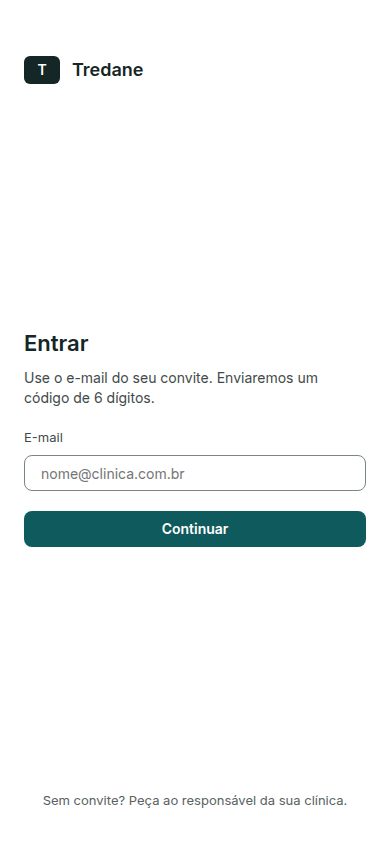
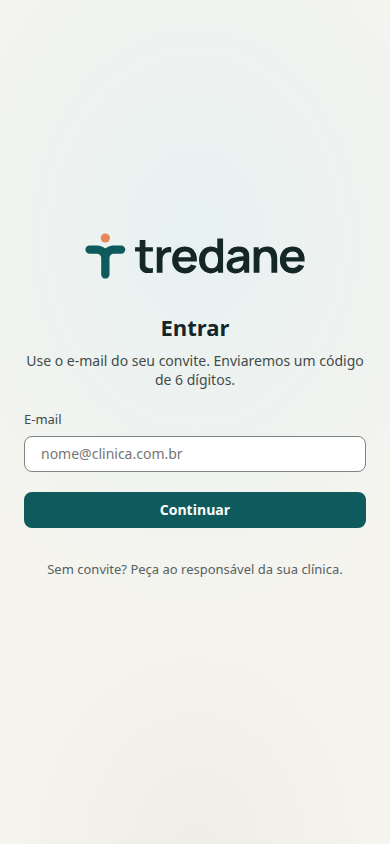
docs(design): redesenha splash Entrar centrado (M-09 + desktop)
Corrige a composição partida (marca no topo, meio vazio, nota no fundo)
com bloco vertical centrado e fundo surface.app. Só mocks — à espera
da aprovação do Paulo, sem implementação no painel.

diff --git a/docs/design/mobile/Entrar.dc.html b/docs/design/mobile/Entrar.dc.html
@@ -9,7 +9,7 @@
 <x-dc>
 <helmet>
 <link rel="preconnect" href="https://fonts.googleapis.com">
-<link href="https://fonts.googleapis.com/css2?family=Inter:wght@400;500;600&amp;display=swap" rel="stylesheet">
+<link href="https://fonts.googleapis.com/css2?family=Roboto:wght@400;500;600&amp;display=swap" rel="stylesheet">
 <style>
 body{margin:0}
 a{color:#0E5A5C}a:hover{color:#0A4547}
@@ -17,33 +17,47 @@ button,input{font:inherit}
 button:focus-visible,a:focus-visible,input:focus-visible{outline:2px solid #0E5A5C;outline-offset:2px}
 </style>
 </helmet>
-<div style="width: 390px; height: 844px; box-sizing: border-box; background: #FFFFFF; color: #142625; font-family: Inter, system-ui, sans-serif; font-size: 14px; line-height: 1.45; display: flex; flex-direction: column; padding: 0 24px 34px; overflow: hidden">
+<!--
+  M-09 Entrar — composição Proposta 31/10/2026 (revisão Paulo).
+  Corrige o splash partido em staging: marca colada no topo, meio vazio,
+  «Sem convite?» colado no fundo. Aqui marca + formulário Clerk (mock) +
+  nota de convite formam um único bloco centrado no eixo vertical.
+  Fundo: surface.app com mancha suave primary.tint (tokens), sem branco plano.
+  DEC-070: logotipo horizontal acima do formulário. Sem features novas.
+-->
+<div style="width: 390px; height: 844px; box-sizing: border-box; position: relative; overflow: hidden; background: #F5F4EF; color: #142625; font-family: Roboto, &quot;Helvetica Neue&quot;, Helvetica, Arial, sans-serif; font-size: 14px; line-height: 1.4; display: flex; flex-direction: column; padding: 0 24px 34px">
 
-<div style="display: flex; align-items: center; gap: 12px; padding-top: 56px">
-<div style="width: 36px; height: 28px; border-radius: 6px; background: #142625; color: #FFFFFF; display: flex; align-items: center; justify-content: center; font-weight: 600">T</div>
-<span style="font-size: 18px; font-weight: 600">Tredane</span>
+<div aria-hidden="true" style="position: absolute; inset: 0; pointer-events: none; background:
+  radial-gradient(120% 70% at 50% 28%, #E7F1F1 0%, rgba(231,241,241,0) 62%),
+  radial-gradient(90% 50% at 50% 100%, #EEEDE7 0%, rgba(238,237,231,0) 55%),
+  #F5F4EF"></div>
+
+<div style="position: relative; flex: 1; display: flex; flex-direction: column; justify-content: center; gap: 32px; min-height: 0">
+
+<div style="display: flex; justify-content: center">
+<img src="../brand/svg/tredane-horizontal-cor.svg" alt="Tredane" height="48" style="height: 48px; width: auto; display: block">
 </div>
 
 <sc-if value="{{isEmail}}" hint-placeholder-val="{{ true }}">
-<div style="flex: 1; display: flex; flex-direction: column; justify-content: center; gap: 20px">
-<div style="display: flex; flex-direction: column; gap: 8px">
+<div style="display: flex; flex-direction: column; gap: 20px">
+<div style="display: flex; flex-direction: column; gap: 8px; text-align: center">
 <h1 style="margin: 0; font-size: 22px; font-weight: 600">Entrar</h1>
 <p style="margin: 0; color: #424B4A">Use o e-mail do seu convite. Enviaremos um código de 6 dígitos.</p>
 </div>
-<label style="display: flex; flex-direction: column; gap: 8px; font-size: 13px; color: #424B4A">E-mail
-<input type="email" autocomplete="email" placeholder="nome@clinica.com.br" style="height: 36px; box-sizing: border-box; padding: 0 16px; border: 1px solid #7A8584; border-radius: 8px; font-size: 14px; color: #142625"></label>
+<label style="display: flex; flex-direction: column; gap: 8px; font-size: 13px; color: #424B4A; text-align: left">E-mail
+<input type="email" autocomplete="email" placeholder="nome@clinica.com.br" style="height: 36px; box-sizing: border-box; padding: 0 16px; border: 1px solid #7A8584; border-radius: 8px; font-size: 14px; color: #142625; background: #FFFFFF"></label>
 <button type="button" onClick="{{goCode}}" style="height: 36px; border: 0; border-radius: 8px; background: #0E5A5C; color: #FFFFFF; font-size: 14px; font-weight: 600; cursor: pointer">Continuar</button>
 </div>
 </sc-if>
 
 <sc-if value="{{isCode}}" hint-placeholder-val="{{ false }}">
-<div style="flex: 1; display: flex; flex-direction: column; justify-content: center; gap: 20px">
-<div style="display: flex; flex-direction: column; gap: 8px">
+<div style="display: flex; flex-direction: column; gap: 20px">
+<div style="display: flex; flex-direction: column; gap: 8px; text-align: center">
 <h1 style="margin: 0; font-size: 22px; font-weight: 600">Digite o código</h1>
 <p style="margin: 0; color: #424B4A">Enviamos um código para a***@clinica.com.br. Ele vale por poucos minutos.</p>
 </div>
-<label style="display: flex; flex-direction: column; gap: 8px; font-size: 13px; color: #424B4A">Código de 6 dígitos
-<input type="text" inputmode="numeric" autocomplete="one-time-code" maxlength="6" placeholder="000000" style="height: 60px; box-sizing: border-box; padding: 0 16px; border: 1px solid #7A8584; border-radius: 8px; font-size: 22px; letter-spacing: .4em; text-align: center; color: #142625"></label>
+<label style="display: flex; flex-direction: column; gap: 8px; font-size: 13px; color: #424B4A; text-align: left">Código de 6 dígitos
+<input type="text" inputmode="numeric" autocomplete="one-time-code" maxlength="6" placeholder="000000" style="height: 60px; box-sizing: border-box; padding: 0 16px; border: 1px solid #7A8584; border-radius: 8px; font-size: 22px; letter-spacing: .4em; text-align: center; color: #142625; background: #FFFFFF"></label>
 <a href="Clinicas.dc.html" style="display: flex; align-items: center; justify-content: center; height: 36px; border-radius: 8px; background: #0E5A5C; color: #FFFFFF; font-weight: 600; text-decoration: none">Entrar</a>
 <div style="display: flex; justify-content: space-between; align-items: center; font-size: 13px">
 <button type="button" onClick="{{goEmail}}" style="min-height: 44px; padding: 0; border: 0; background: transparent; color: #0A4547; font-weight: 500; text-decoration: underline; cursor: pointer">Usar outro e-mail</button>
@@ -53,6 +67,7 @@ button:focus-visible,a:focus-visible,input:focus-visible{outline:2px solid #0E5A
 </sc-if>
 
 <p style="margin: 0; font-size: 13px; color: #566160; text-align: center">Sem convite? Peça ao responsável da sua clínica.</p>
+</div>
 </div>
 </x-dc>
 <script type="text/x-dc" data-dc-script data-props='{"$preview":{"width":390,"height":844}}'>

diff --git a/docs/design/desktop/Entrar.dc.html b/docs/design/desktop/Entrar.dc.html
@@ -1,0 +1,60 @@
+<!doctype html>
+<html lang="pt-BR">
+<head>
+<meta charset="utf-8">
+<title>Entrar — desktop</title>
+<script src="./support.js"></script>
+</head>
+<body>
+<x-dc>
+<helmet>
+<link rel="preconnect" href="https://fonts.googleapis.com">
+<link href="https://fonts.googleapis.com/css2?family=Roboto:wght@400;500;600&amp;display=swap" rel="stylesheet">
+<style>
+body{margin:0}
+a{color:#0E5A5C}a:hover{color:#0A4547}
+button,input{font:inherit}
+button:focus-visible,a:focus-visible,input:focus-visible{outline:2px solid #0E5A5C;outline-offset:2px}
+</style>
+</helmet>
+<!--
+  Entrar desktop — mesma composição do M-09 (Proposta 31/10/2026).
+  Viewport do pipeline de previews: 1440×900. Coluna de autenticação
+  centrada (~400 px). Sem cards no hero; marca horizontal (DEC-070).
+-->
+<div style="width: 1440px; height: 900px; box-sizing: border-box; position: relative; overflow: hidden; background: #F5F4EF; color: #142625; font-family: Roboto, &quot;Helvetica Neue&quot;, Helvetica, Arial, sans-serif; font-size: 14px; line-height: 1.4; display: flex; align-items: center; justify-content: center; padding: 40px">
+
+<div aria-hidden="true" style="position: absolute; inset: 0; pointer-events: none; background:
+  radial-gradient(80% 70% at 50% 35%, #E7F1F1 0%, rgba(231,241,241,0) 58%),
+  radial-gradient(70% 45% at 50% 100%, #EEEDE7 0%, rgba(238,237,231,0) 50%),
+  #F5F4EF"></div>
+
+<div style="position: relative; width: 400px; max-width: 100%; display: flex; flex-direction: column; gap: 32px">
+
+<div style="display: flex; justify-content: center">
+<img src="../brand/svg/tredane-horizontal-cor.svg" alt="Tredane" height="56" style="height: 56px; width: auto; display: block">
+</div>
+
+<div style="display: flex; flex-direction: column; gap: 20px">
+<div style="display: flex; flex-direction: column; gap: 8px; text-align: center">
+<h1 style="margin: 0; font-size: 22px; font-weight: 600">Entrar</h1>
+<p style="margin: 0; color: #424B4A">Use o e-mail do seu convite. Enviaremos um código de 6 dígitos.</p>
+</div>
+<label style="display: flex; flex-direction: column; gap: 8px; font-size: 13px; color: #424B4A; text-align: left">E-mail
+<input type="email" autocomplete="email" placeholder="nome@clinica.com.br" style="height: 36px; box-sizing: border-box; padding: 0 16px; border: 1px solid #7A8584; border-radius: 8px; font-size: 14px; color: #142625; background: #FFFFFF"></label>
+<button type="button" style="height: 36px; border: 0; border-radius: 8px; background: #0E5A5C; color: #FFFFFF; font-size: 14px; font-weight: 600; cursor: pointer">Continuar</button>
+</div>
+
+<p style="margin: 0; font-size: 13px; color: #566160; text-align: center">Sem convite? Peça ao responsável da sua clínica.</p>
+</div>
+</div>
+</x-dc>
+<script type="text/x-dc" data-dc-script data-props='{"$preview":{"width":1440,"height":900}}'>
+class Component extends DCLogic {
+renderVals() {
+return {};
+}
+}
+</script>
+</body>
+</html>

diff --git a/docs/design/tools/render_previews.py b/docs/design/tools/render_previews.py
@@ -29,6 +29,9 @@ def conv(src):
     body = body.replace('aria-selected="{{proSelected}}"', 'aria-selected="true"').replace('aria-selected="{{roomSelected}}"', 'aria-selected="false"')
     body = re.sub(r'\s+onClick="\{\{\w+\}\}"', '', body)
     body = re.sub(r'href="[A-Za-z]+\.dc\.html"', 'href="#"', body)
+    # Marca em ../brand/… (relativo ao .dc.html) → file:// absoluto para o Chromium do shot.mjs
+    brand_base = 'file://' + os.path.abspath(os.path.join(ROOT, 'brand')).replace('\\', '/')
+    body = body.replace('src="../brand/', 'src="%s/' % brand_base)
     title = re.search(r'<title>(.*?)</title>', src).group(1)
     return '<!doctype html><html lang="pt-BR"><head><meta charset="utf-8"><title>%s</title><style>%s</style></head><body>%s</body></html>' % (title, style, body)
 

diff --git a/docs/product/ux-ui.md b/docs/product/ux-ui.md
@@ -195,6 +195,7 @@ A IA não preenche nem confirma este painel no MVP (ADR-0004).
 **Origem:** DEC-007; REQ-005; AC-17. **Estado:** Proposto.
 
 - **Marca (Confirmado, DEC-070):** o logotipo horizontal fica acima do formulário de entrada e o empilhado acima da lista de clínicas.
+- **Composição do ecrã de entrada (Proposto, 31/10/2026):** marca + formulário (ou shell do Clerk) + nota «Sem convite? Peça ao responsável da sua clínica.» formam um único bloco centrado no eixo vertical, sobre fundo `surface.app` com atmosfera suave (`primary.tint`), sem marcar a marca no topo e a nota no fundo com o meio vazio. Mock: M-09 e `desktop/Entrar`. À espera de aprovação do responsável — sem implementação até lá.
 - **Entrar:** fluxo do Clerk com código por e-mail: campo de e-mail → campo do código, com preenchimento automático no celular (`autocomplete="one-time-code"`) e reenvio. A mensagem de erro não revela se o e-mail tem conta. Textos e cores seguem a spec; o comportamento é o do Clerk.
 - **Escolher clínica:** lista com nome de cada clínica e papel (Atendente/Responsável). Com uma só clínica, a tela é pulada.
 - **Trocar de clínica (Confirmado, DEC-071):** tocar no nome da clínica abre um menu no desktop ou uma folha de baixo no celular com as clínicas da pessoa, o papel em cada uma e ✓ na atual; com uma só clínica é texto. «Ver todas as clínicas» abre esta página inteira. Antes: tocar no nome abria a mesma lista em tela cheia. Ao trocar, a tela mostra “Abrindo Clínica B…”, descarta os dados da anterior e reconecta o tempo real; texto não enviado no compositor é descartado com confirmação.

diff --git a/docs/design/README.md b/docs/design/README.md
@@ -66,7 +66,7 @@ Registradas para que ninguém as copie como se fossem intencionais. Corrija na i
 | Chips e botões pequenos (altura visual de 28 a 36px, v0.4.0) | Abaixo dos 44px de área clicável (UX-08) | Mesma aparência, com área clicável ≥ 44px (padding ou pseudo-elemento, como no [catálogo](catalog/index.html)) |
 | M-06 Agenda do dia | Não mostra o alternador **Dia / Semana** | Incluir como em M-13 (DEC-040) |
 | M-15 Clínica | O item “WhatsApp” abre M-19 (não conectado) | Abrir M-19, M-23 ou M-24 conforme o estado real da conexão |
-| M-09 Entrar | É um mock do comportamento | A tela real é o componente do Clerk com a identidade do Tredane |
+| M-09 Entrar | É um mock do comportamento; composição do bloco centrado **Proposta** (31/10/2026) | A tela real é o componente do Clerk com a identidade do Tredane; não implementar o redesenho do splash até o responsável aprovar o mock |
 | M-01 a M-14 | Mostram a barra de 3 abas (visão do Atendente) | O Responsável vê 4 abas, com **Clínica** (M-15) |
 | M-20 | Aba “Salas · 3” abrevia “Salas e equipamentos” | Manter o título completo no cabeçalho e na descrição da aba; o rótulo curto cabe em 360px |
 | Fonte | Os mocks pedem Inter e os previews usam a fonte do sistema | Usar **Roboto** (400/500/600), hospedada pelo Tredane ([DEC-073](../product/decisions.md), [ADR-0013](../adr/0013-design-system-components.md)); conferir as quebras de linha com ela, porque a largura do texto muda com a fonte e linhas que cabem nos previews podem quebrar |

diff --git a/docs/design/screens.md b/docs/design/screens.md
@@ -21,7 +21,7 @@ Cada linha liga um mock a sua especificação. **A especificação manda:** em c
 
 | ID | Arquivo | Tela da spec | Jornadas · Requisitos · Cenários | Mostra | Navega para |
 | --- | --- | --- | --- | --- | --- |
-| M-09 | `Entrar` (interativo) | TEL-08 | JRN-07, JRN-08 · REQ-005 · AC-17 | Passo e-mail → passo código de 6 dígitos (`autocomplete="one-time-code"`). **Mock do comportamento:** a tela real é o componente do Clerk estilizado | M-10 |
+| M-09 | `Entrar` (interativo) | TEL-08 | JRN-07, JRN-08 · REQ-005 · AC-17 | **Proposto (31/10/2026, revisão Paulo):** marca horizontal centrada (hero), formulário e «Sem convite?» num único bloco vertical centrado sobre fundo `surface.app` com mancha `primary.tint` — corrige splash partido (logo no topo, meio vazio, nota no fundo). Passo e-mail → código (`autocomplete="one-time-code"`). **Mock do comportamento:** a tela real é o Clerk estilizado. Desktop: `desktop/Entrar.dc.html` (mesma composição, coluna ~400 px) | M-10 |
 | M-10 | `Clinicas` | TEL-08 | JRN-07 · REQ-005 · AC-17 | Escolha da clínica com papel em cada uma; aparece só com mais de uma clínica | M-01 |
 | M-11 | `JanelaFechada` | TEL-01, DEC-040 | JRN-02 · REQ-012 | Fora da janela de 24 h: texto livre **bloqueado**, aviso, **Escolher modelo** | M-12 |
 | M-12 | `Modelos` | TEL-01, DEC-040 | JRN-02 · REQ-012 | Lista de modelos aprovados, campos a preencher, prévia não editável, aviso de custo, **Enviar modelo** | M-11 |

diff --git a/docs/design/CHANGELOG.md b/docs/design/CHANGELOG.md
@@ -3,6 +3,11 @@
 Registra mudanças nos tokens e nos mocks. Mais recente primeiro. IDs de telas não são renumerados.
 
 
+## 31/10/2026 — Entrar / splash (Proposto, revisão Paulo)
+
+- **M-09 Entrar** e novo `desktop/Entrar.dc.html`: marca horizontal (DEC-070) + formulário + «Sem convite?» num bloco centrado; fundo `surface.app` com mancha `primary.tint` (sem branco plano partido). Corrige o ecrã de staging com logo no topo, meio vazio e nota no fundo. **À espera de aprovação — sem implementação no painel.**
+- `tools/render_previews.py` resolve `../brand/` para `file://` absoluto nos HTML temporários.
+
 ## Tokens 0.4.0 — 30/10/2026 (Confirmado, DEC-081)
 
 Pedido do responsável pelo produto (30/10/2026): alinhar a tipografia ao WhatsApp Web e deixar botões e campos menos altos. Valores **Confirmados** em 30/10/2026 (DEC-081).
